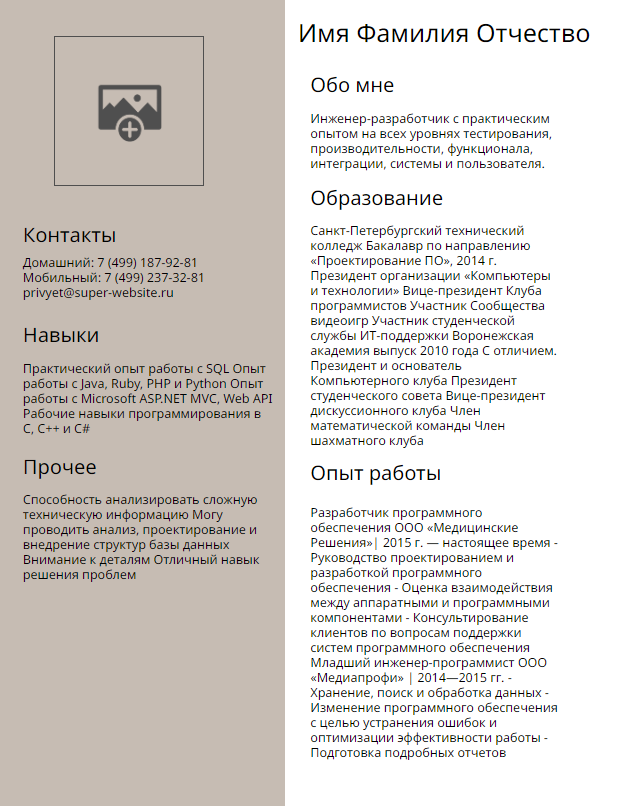
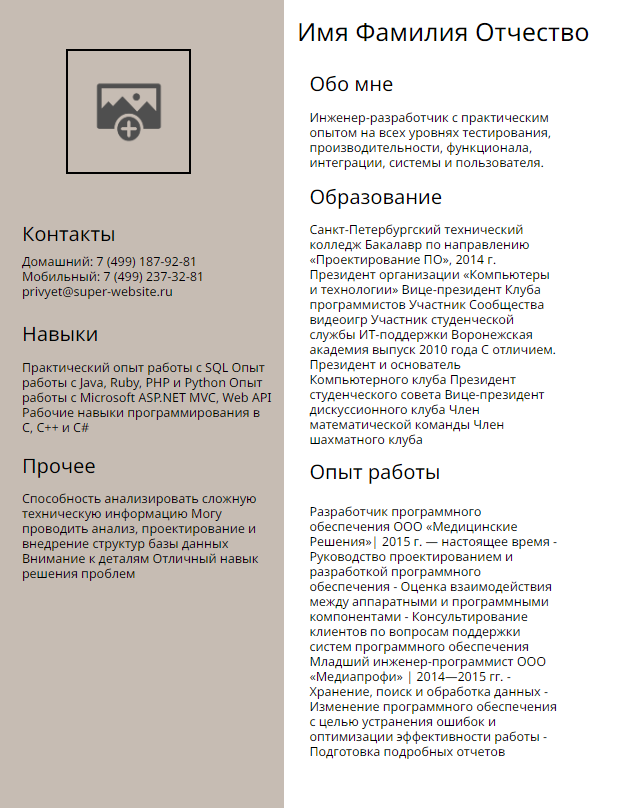
feat: add logotypes templates

diff --git a/src/components/layoutTemplates/resume/index.ts b/src/components/layoutTemplates/resume/index.ts
@@ -21,45 +21,45 @@ export class ResumeTemplates {
     return card.add();
   }
 
-  resumeTemplate() {
+  resumeTemplate(fontFamily: string, color: string) {
     const fio = createTemplateTextArea('250px', '240px', '15px');
-    fio.appendChild(createTemplateText(resumeData.fio, 'Noto Sans', '20px', 'black'));
+    fio.appendChild(createTemplateText(resumeData.fio, fontFamily, '20px', color));
 
     const aboutMe = createTemplateTextArea('200px', '250px', '60px');
-    aboutMe.appendChild(createTemplateText(resumeData.about_me, 'Noto Sans', '16px', 'black'));
+    aboutMe.appendChild(createTemplateText(resumeData.about_me, fontFamily, '16px', color));
 
     const aboutMeInfo = createTemplateTextArea('200px', '250px', '90px');
-    aboutMeInfo.appendChild(createTemplateText(resumeData.info_abot_me, 'Noto Sans', '10px', 'black'));
+    aboutMeInfo.appendChild(createTemplateText(resumeData.info_abot_me, fontFamily, '10px', color));
 
     const contacts = createTemplateTextArea('200px', '20px', '180px');
-    contacts.appendChild(createTemplateText(resumeData.contacts, 'Noto Sans', '16px', 'black'));
+    contacts.appendChild(createTemplateText(resumeData.contacts, fontFamily, '16px', color));
 
     const contactsInfo = createTemplateTextArea('200px', '20px', '205px');
-    contactsInfo.appendChild(createTemplateText(resumeData.info_contacts, 'Noto Sans', '10px', 'black'));
+    contactsInfo.appendChild(createTemplateText(resumeData.info_contacts, fontFamily, '10px', color));
 
     const experience = createTemplateTextArea('200px', '250px', '370px');
-    experience.appendChild(createTemplateText(resumeData.experience, 'Noto Sans', '16px', 'black'));
+    experience.appendChild(createTemplateText(resumeData.experience, fontFamily, '16px', color));
 
     const experienceInfo = createTemplateTextArea('200px', '250px', '405px');
-    experienceInfo.appendChild(createTemplateText(resumeData.info_experience, 'Noto Sans', '10px', 'black'));
+    experienceInfo.appendChild(createTemplateText(resumeData.info_experience, fontFamily, '10px', color));
 
     const education = createTemplateTextArea('200px', '250px', '150px');
-    education.appendChild(createTemplateText(resumeData.education, 'Noto Sans', '16px', 'black'));
+    education.appendChild(createTemplateText(resumeData.education, fontFamily, '16px', color));
 
     const educationInfo = createTemplateTextArea('200px', '250px', '180px');
-    educationInfo.appendChild(createTemplateText(resumeData.info_education, 'Noto Sans', '10px', 'black'));
+    educationInfo.appendChild(createTemplateText(resumeData.info_education, fontFamily, '10px', color));
 
     const skills = createTemplateTextArea('200px', '20px', '260px');
-    skills.appendChild(createTemplateText(resumeData.skills, 'Noto Sans', '16px', 'black'));
+    skills.appendChild(createTemplateText(resumeData.skills, fontFamily, '16px', color));
 
     const skillsInfo = createTemplateTextArea('200px', '20px', '290px');
-    skillsInfo.appendChild(createTemplateText(resumeData.info_skills, 'Noto Sans', '10px', 'black'));
+    skillsInfo.appendChild(createTemplateText(resumeData.info_skills, fontFamily, '10px', color));
 
     const other = createTemplateTextArea('200px', '20px', '365px');
-    other.appendChild(createTemplateText(resumeData.other, 'Noto Sans', '16px', 'black'));
+    other.appendChild(createTemplateText(resumeData.other, fontFamily, '16px', color));
 
     const otherInfo = createTemplateTextArea('200px', '20px', '395px');
-    otherInfo.appendChild(createTemplateText(resumeData.info_other, 'Noto Sans', '10px', 'black'));
+    otherInfo.appendChild(createTemplateText(resumeData.info_other, fontFamily, '10px', color));
 
     const photo = createTemplateImg('120px', '120px', '45px', '30px', elemStyleTemplates.isLoad);
 
@@ -85,15 +85,16 @@ export class ResumeTemplates {
 
   createTemplate1() {
     const card = new LayOutTemplate(resumeCardSize, 'white');
-    const template = this.resumeTemplate();
+    const template = this.resumeTemplate('Noto Sans', 'black');
     const square = createTemplateShape('230px', '650px', '0', '0', 'none', 'none', '#C6BCB3');
+    const square2 = createTemplateShape('100px', '100px', '55px', '41px', 'black');
 
-    return card.add(square, ...template);
+    return card.add(square, square2, ...template);
   }
 
   createTemplate2() {
     const card = new LayOutTemplate(resumeCardSize, 'white');
-    const template = this.resumeTemplate();
+    const template = this.resumeTemplate('Nunito', 'black');
 
     const square = createTemplateShape('230px', '650px', '0', '0', 'none', 'none', 'rgb(209, 209, 209)');
     const square2 = createTemplateShape('500px', '85px', '0', '170px', 'none', 'none', 'rgb(232, 219, 84)');
@@ -103,7 +104,7 @@ export class ResumeTemplates {
 
   createTemplate3() {
     const card = new LayOutTemplate(resumeCardSize, 'white');
-    const template = this.resumeTemplate();
+    const template = this.resumeTemplate('Noto Sans', 'black');
 
     const square1 = createTemplateShape('220px', '35px', '245px', '50px', 'none', 'none', 'rgb(124, 228, 179)');
     const square2 = createTemplateShape('220px', '35px', '245px', '142px', 'none', 'none', 'rgb(124, 228, 179)');
@@ -113,12 +114,14 @@ export class ResumeTemplates {
     const square5 = createTemplateShape('220px', '35px', '10px', '250px', 'none', 'none', 'rgb(124, 228, 179)');
     const square6 = createTemplateShape('220px', '35px', '10px', '355px', 'none', 'none', 'rgb(124, 228, 179)');
 
-    return card.add(square1, square2, square3, square4, square5, square6, ...template);
+    const circle = createTemplateShape('130px', '130px', '40px', '25px', 'black', '50%');
+
+    return card.add(square1, square2, square3, square4, square5, square6, circle, ...template);
   }
 
   createTemplate4() {
     const card = new LayOutTemplate(resumeCardSize, 'white');
-    const template = this.resumeTemplate();
+    const template = this.resumeTemplate('Nunito', 'black');
 
     const square = createTemplateShape('220px', '650px', '10px', '0', 'none', 'none', '#6B9999');
     const square2 = createTemplateShape('500px', '100px', '0', '50px', 'none', 'none', '#EBC9BB');

diff --git a/src/components/layoutTemplates/logotype/index.ts b/src/components/layoutTemplates/logotype/index.ts
@@ -1,41 +1,67 @@
 import { createPanelTemplates } from '..';
-import resume_1 from '../../../assets/templateImages/postCard_1.png';
-import resume_2 from '../../../assets/templateImages/postCard_2.png';
-import resume_3 from '../../../assets/templateImages/postCard_3.png';
-import resume_4 from '../../../assets/templateImages/postCard_4.png';
+import logo_1 from '../../../assets/templateImages/logo_1.png';
+import logo_2 from '../../../assets/templateImages/logo_2.png';
+import logo_3 from '../../../assets/templateImages/logo_3.png';
+import logo_4 from '../../../assets/templateImages/logo_4.png';
 import { logoCardSize } from '../../../data/layoutTemplateData';
 import { LayOutTemplate } from '../mainTemplate';
+
+import monica from '../../../assets/templateImages/monica.png';
+import minimalism_mountains from '../../../assets/templateImages/minimalism_mountains.png';
+import gold_ring from '../../../assets/templateImages/gold_ring.png';
+import fashion_girl from '../../../assets/templateImages/fashion_girl.png';
+
+import { createTemplateImg, createTemplateText, createTemplateTextArea } from '../elementsTemplate';
 
 //Post cards templates
 
 export class LogoTemplates {
   createEmptyTemplate() {
     const card = new LayOutTemplate(logoCardSize, 'white');
+
     return card.add();
   }
 
   createTemplate1() {
-    const card = new LayOutTemplate(logoCardSize, '#82BFD3');
+    const card = new LayOutTemplate(logoCardSize, 'white');
 
-    return card.add();
+    const img = createTemplateImg('220px', '220px', '95px', '47px', monica);
+    const title = createTemplateTextArea('250px', '70px', '265px');
+    title.appendChild(createTemplateText('Моника', 'Marck Script', '60px', 'black', 'center'));
+    const text = createTemplateTextArea('200px', '95px', '340px');
+    text.appendChild(createTemplateText('Винтажный магазин', 'Marck Script', '16px', 'black', 'center'));
+
+    return card.add(img, title, text);
   }
 
   createTemplate2() {
-    const card = new LayOutTemplate(logoCardSize, 'black');
+    const card = new LayOutTemplate(logoCardSize, 'white');
 
-    return card.add();
+    const img = createTemplateImg('270px', '270px', '65px', '65px', gold_ring);
+    const title = createTemplateTextArea('300px', '50px', '140px');
+    title.appendChild(createTemplateText('Sweetness', 'Miss Fajardose', '100px', '#B19C77', 'center'));
+
+    return card.add(img, title);
   }
 
   createTemplate3() {
-    const card = new LayOutTemplate(logoCardSize, '#E6D0EB');
+    const card = new LayOutTemplate(logoCardSize, '#B8D3E0');
 
-    return card.add();
+    const img = createTemplateImg('300px', '300px', '50px', '50px', minimalism_mountains);
+    const title = createTemplateTextArea('300px', '50px', '200px');
+    title.appendChild(createTemplateText('Кофейня «Сьерра»', 'Cormorant Infant', '32px', '#303030', 'center'));
+
+    return card.add(img, title);
   }
 
   createTemplate4() {
-    const card = new LayOutTemplate(logoCardSize, '#9FC1B7');
+    const card = new LayOutTemplate(logoCardSize, '#E6E6E5');
 
-    return card.add();
+    const img = createTemplateImg('250px', '250px', '75px', '75px', fashion_girl);
+    const title = createTemplateTextArea('400px', '0', '265px');
+    title.appendChild(createTemplateText('Fashion boutique', 'Aboreto', '32px', '#303030', 'center'));
+
+    return card.add(img, title);
   }
 
   render(id: string) {
@@ -60,7 +86,7 @@ export class LogoTemplates {
   }
 }
 
-export const logoPanelTemplates = createPanelTemplates(220, 135, resume_1, resume_2, resume_3, resume_4);
+export const logoPanelTemplates = createPanelTemplates(200, 200, logo_1, logo_2, logo_3, logo_4);
 
 logoPanelTemplates.addEventListener('click', (event) => {
   const canvas = document.querySelector('.layout-canvas');

diff --git a/src/components/layoutTemplates/postCard/index.ts b/src/components/layoutTemplates/postCard/index.ts
@@ -30,7 +30,7 @@ export class PostCardTemplates {
     const title = createTemplateTextArea('300px', '25px', '140px');
     title.appendChild(createTemplateText(defaultTexsts.birthday, 'Caveat', '48px', '#319D6B', 'center'));
 
-    const img = createTemplateImg('302px', '257px', '261px', '65px', `url(${croco})`);
+    const img = createTemplateImg('302px', '257px', '261px', '65px', croco);
 
     return card.add(title, img);
   }
@@ -38,7 +38,7 @@ export class PostCardTemplates {
   createTemplate2() {
     const card = new LayOutTemplate(postCardSize, 'black');
 
-    const img = createTemplateImg('342px', '236px', '131px', '109px', `url(${hb})`);
+    const img = createTemplateImg('342px', '236px', '131px', '109px', hb);
 
     return card.add(img);
   }
@@ -46,9 +46,9 @@ export class PostCardTemplates {
   createTemplate3() {
     const card = new LayOutTemplate(postCardSize, '#E6D0EB');
 
-    const img = createTemplateImg('341px', '256px', '139px', '16px', `url(${congrats})`);
-    const img2 = createTemplateImg('195px', '212px', '-33px', '171px', `url(${vine})`);
-    const img3 = createTemplateImg('126px', '119px', '80px', '262px', `url(${coctail})`);
+    const img = createTemplateImg('341px', '256px', '139px', '16px', congrats);
+    const img2 = createTemplateImg('195px', '212px', '-33px', '171px', vine);
+    const img3 = createTemplateImg('126px', '119px', '80px', '262px', coctail);
 
     return card.add(img, img2, img3);
   }
@@ -56,11 +56,11 @@ export class PostCardTemplates {
   createTemplate4() {
     const card = new LayOutTemplate(postCardSize, '#9FC1B7');
 
-    const img = createTemplateImg('240px', '153px', '186px', '114px', `url(${thankU})`);
-    const img1 = createTemplateImg('150px', '150px', '9px', '241px', `url(${confetti})`);
-    const img2 = createTemplateImg('150px', '150px', '441px', '11px', `url(${confetti})`);
-    const img3 = createTemplateImg('150px', '150px', '11px', '8px', `url(${confetti})`);
-    const img4 = createTemplateImg('150px', '150px', '440px', '241px', `url(${confetti})`);
+    const img = createTemplateImg('240px', '153px', '186px', '114px', thankU);
+    const img1 = createTemplateImg('150px', '150px', '9px', '241px', confetti);
+    const img2 = createTemplateImg('150px', '150px', '441px', '11px', confetti);
+    const img3 = createTemplateImg('150px', '150px', '11px', '8px', confetti);
+    const img4 = createTemplateImg('150px', '150px', '440px', '241px', confetti);
 
     return card.add(img, img1, img2, img3, img4);
   }

diff --git a/src/data/layoutTemplateData.ts b/src/data/layoutTemplateData.ts
@@ -49,10 +49,13 @@ import hb_1 from '../assets/templateImages/hb_1.png';
 import hb from '../assets/templateImages/hb.png';
 import presents from '../assets/templateImages/presents.png';
 import thankU from '../assets/templateImages/thankU.png';
-
 import mountains from '../assets/templateImages/mountains.png';
 import flowers from '../assets/templateImages/flowers.png';
 import qrCode from '../assets/templateImages/qrCode.png';
+import monica from '../assets/templateImages/monica.png';
+import minimalism_mountains from '../assets/templateImages/minimalism_mountains.png';
+import gold_ring from '../assets/templateImages/gold_ring.png';
+import fashion_girl from '../assets/templateImages/fashion_girl.png';
 
 import loadPhoto from '../assets/ico/ico_load_photo.png';
 
@@ -70,8 +73,11 @@ export const tempElementsArr = [
   loadPhoto,
   girl,
   girl_2,
+  monica,
+  fashion_girl,
   cats,
   circle,
+  gold_ring,
   heart,
   heart_2,
   rainbow,
@@ -122,6 +128,7 @@ export const tempElementsArr = [
   flowers,
   qrCode,
   mountains,
+  minimalism_mountains,
 ];
 
 export const fontFamilyList = [
@@ -130,7 +137,10 @@ export const fontFamilyList = [
   'Nunito',
   'Pacifico',
   'Caveat',
+  'Cormorant Infant',
+  'Marck Script',
   'Noto Sans',
+  'Miss Fajardose',
   'Changa',
   'Maven Pro',
   'Quantico',

diff --git a/src/components/layoutTemplates/index.ts b/src/components/layoutTemplates/index.ts
@@ -63,7 +63,7 @@ function createTemplateElementsPanel(elements: string[]) {
         );
       } else {
         container?.appendChild(
-          createTemplateImg('150px', '150px', 'calc(50% - 75px)', 'calc(50% - 75px)', `url(${elements[i]})`),
+          createTemplateImg('150px', '150px', 'calc(50% - 75px)', 'calc(50% - 75px)', elements[i]),
         );
       }
     });
@@ -103,22 +103,17 @@ function createTemplateTextPanel() {
   shapes.append(textElem, square, circl);
 
   circl.addEventListener('click', () => {
+    console.log(circl);
+
     const container = document.querySelector('.container');
-    const crcl = createTemplateShape(
-      '100px',
-      '100px',
-      'calc(50% - 50px)',
-      'calc(50% - 50px)',
-      '1px solid black',
-      '50%',
-    );
+    const crcl = createTemplateShape('100px', '100px', 'calc(50% - 50px)', 'calc(50% - 50px)', 'black', '50%');
 
     container?.appendChild(crcl);
   });
 
   square.addEventListener('click', () => {
     const container = document.querySelector('.container');
-    const sqr = createTemplateShape('100px', '100px', 'calc(50% - 50px)', 'calc(50% - 50px)', '1px solid black');
+    const sqr = createTemplateShape('100px', '100px', 'calc(50% - 50px)', 'calc(50% - 50px)', 'black');
 
     container?.appendChild(sqr);
   });

diff --git a/src/components/layoutTemplates/businessCard/index.ts b/src/components/layoutTemplates/businessCard/index.ts
@@ -61,7 +61,7 @@ export class BusinessCardTemplates {
     const title = createTemplateTextArea('300px', '200px', '260px');
     title.appendChild(createTemplateText(defaultTexsts.title, 'Pacifico', '32px', 'white', 'center'));
 
-    const image = createTemplateImg('150px', '150px', '275px', '100px', `url(${mountains})`);
+    const image = createTemplateImg('150px', '150px', '275px', '100px', mountains);
 
     return card.add(title, image);
   }
@@ -74,8 +74,8 @@ export class BusinessCardTemplates {
     const title2 = createTemplateTextArea('300px', '350px', '130px');
     title2.appendChild(createTemplateText(defaultTexsts.title, 'Noto Sans', '24px', '#3E544F', 'center'));
 
-    const image = createTemplateImg('400px', '400px', '-90px', '145px', `url(${flowers})`);
-    const image2 = createTemplateImg('100px', '100px', '450px', '200px', `url(${qrCode})`);
+    const image = createTemplateImg('400px', '400px', '-90px', '145px', flowers);
+    const image2 = createTemplateImg('100px', '100px', '450px', '200px', qrCode);
 
     return card.add(title, title2, image, image2);
   }

diff --git a/src/pages/designPage/index.ts b/src/pages/designPage/index.ts
@@ -72,7 +72,18 @@ const createDesignPageHeader = () => {
   controlBlock.append(link, arrowBlock, saveBlock, removeBlock);
 
   const title = createHtmlElement('p', 'header__title');
-  title.textContent = 'Дизайн - Business card';
+
+  setTimeout(() => {
+    if (window.location.hash.includes(TypesDesigne.VisitCard)) {
+      title.textContent = 'Дизайн - Business card';
+    } else if (window.location.hash.includes(TypesDesigne.Postcard)) {
+      title.textContent = 'Дизайн - Post card';
+    } else if (window.location.hash.includes(TypesDesigne.Resume)) {
+      title.textContent = 'Дизайн - Resume';
+    } else if (window.location.hash.includes(TypesDesigne.Logo)) {
+      title.textContent = 'Дизайн - Logotype';
+    }
+  }, 0);
 
   const btnBlock = createHtmlElement('div', 'header__btn-block');
   const btn = createLogInButton();

diff --git a/src/assets/fonts/index.scss b/src/assets/fonts/index.scss
@@ -24,3 +24,9 @@
 
 //Noto Sans
 @import url('https://fonts.googleapis.com/css2?family=Noto+Sans:wght@100&display=swap');
+
+//Cormorant Infant, Marck Script
+@import url('https://fonts.googleapis.com/css2?family=Cormorant+Infant&family=Marck+Script&display=swap');
+
+//Miss Fajardose
+@import url('https://fonts.googleapis.com/css2?family=Miss+Fajardose&display=swap');

diff --git a/src/components/layoutTemplates/elementsTemplate/index.ts b/src/components/layoutTemplates/elementsTemplate/index.ts
@@ -171,7 +171,7 @@ export function createTemplateImg(width: string, height: string, x: string, y: s
   if (img === elemStyleTemplates.isLoad) {
     element = loadPhoto(element);
   } else {
-    element.style.background = img;
+    element.style.background = `url(${img})`;
   }
 
   element.style.backgroundSize = elemStyleTemplates.bgSize;

diff --git a/src/components/layoutTemplates/_layoutTemplates.style.scss b/src/components/layoutTemplates/_layoutTemplates.style.scss
@@ -78,7 +78,10 @@
 }
 
 .layout-templates {
-  padding: 0 0 0 25px;
+  display: flex;
+  flex-direction: column;
+  align-items: center;
+  padding: 0 15px;
   overflow-y: scroll;
   max-height: 700px;
 
